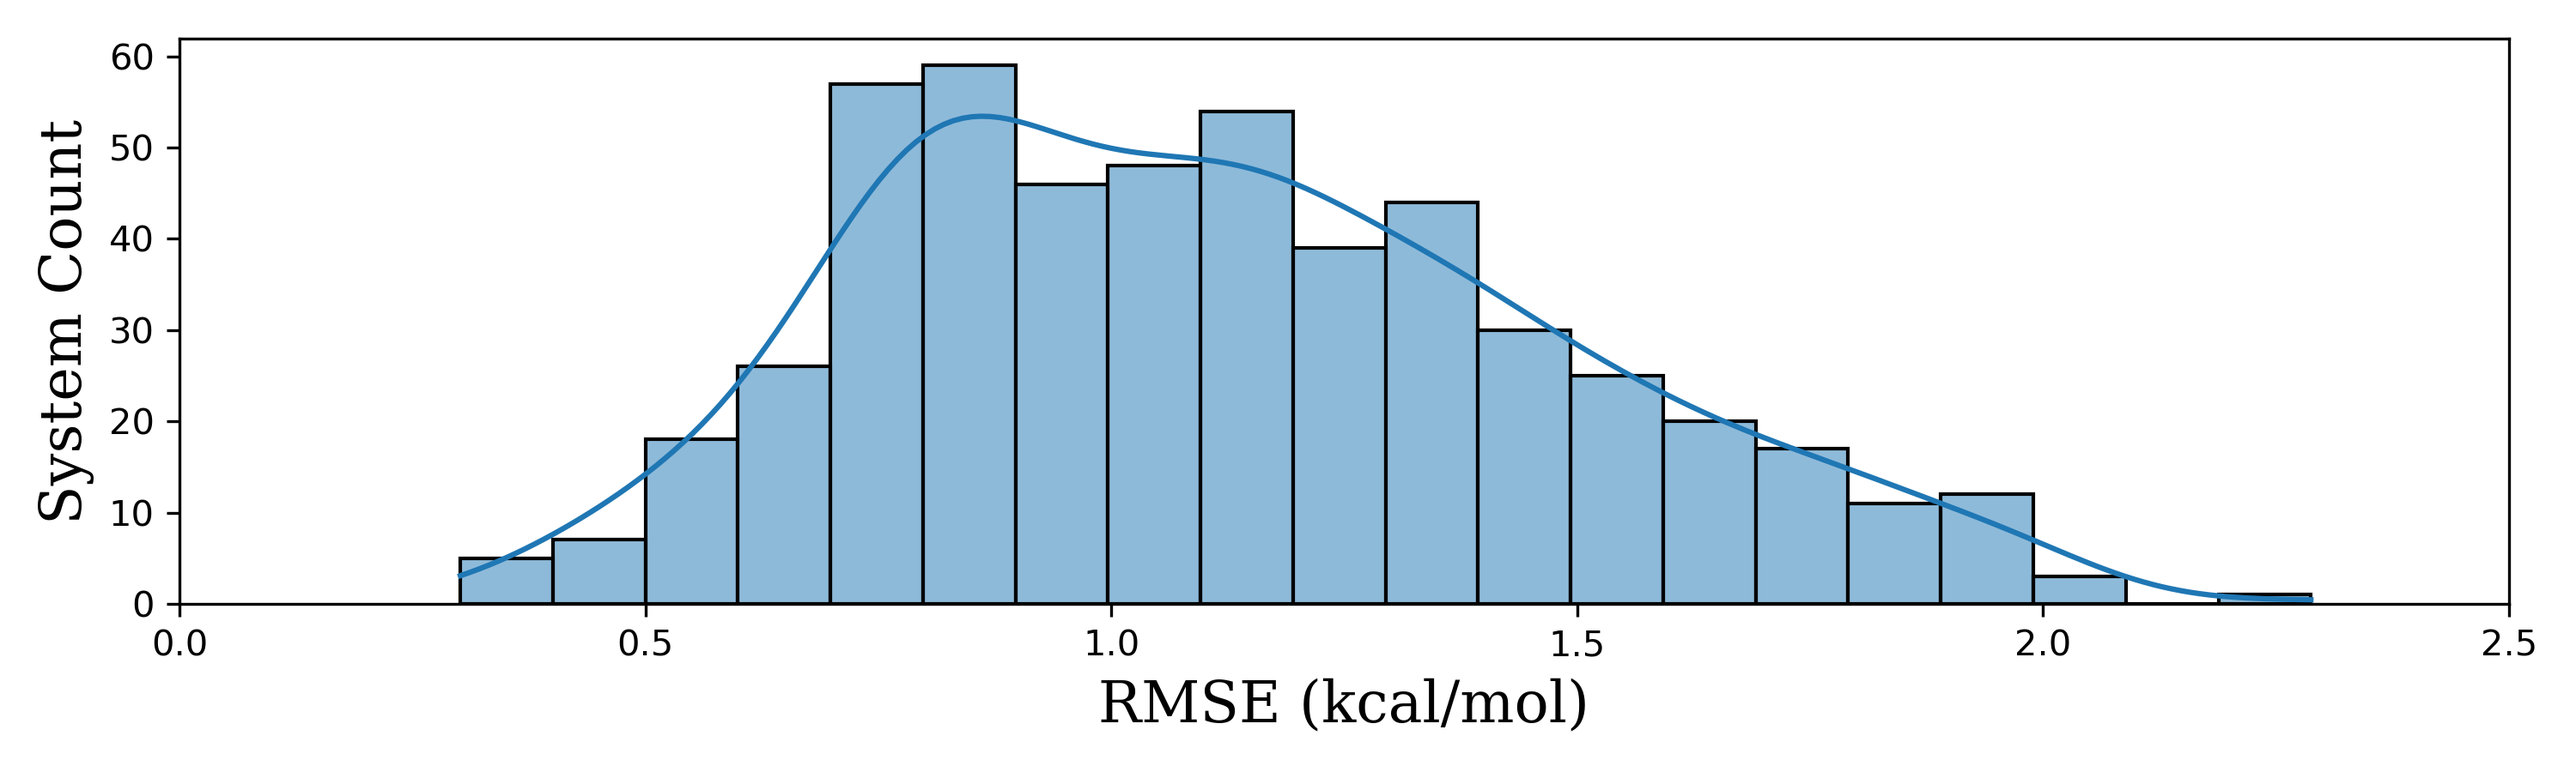
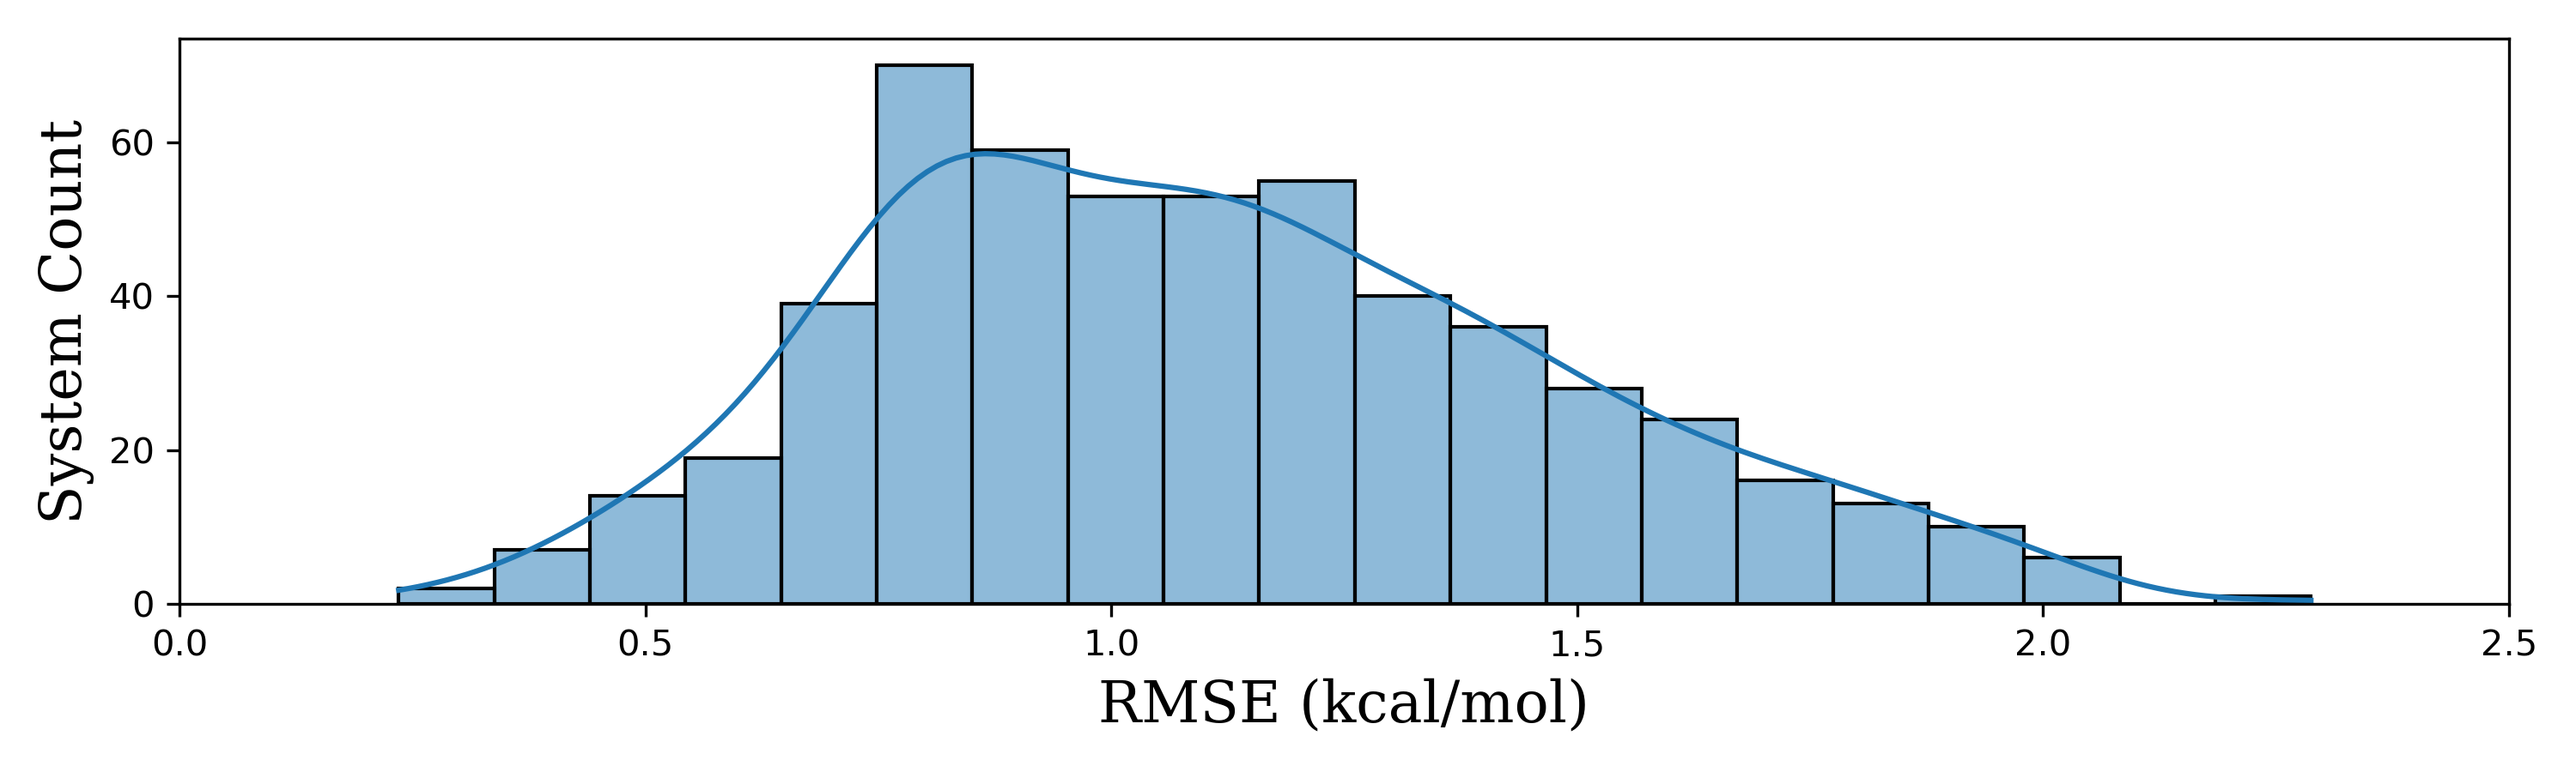
Refresh benchmark summary after weekly ChEMBL upload.

diff --git a/README.md b/README.md
@@ -34,8 +34,8 @@ For more details, please refer to our [FEP Open Challenge introduction](https://
 
 
 ## Summary of Benchmark Results
-**Total Systems**: 522  
-**Total Ligands**: 10124
+**Total Systems**: 545  
+**Total Ligands**: 10535
 ![RMSE Distribution](rmse_distribution.png)
 ![Kendall's tau Distribution](tau_distribution.png)
 | Series | Target | N_Ligands | RMSE (kcal/mol) | R² | Kendall's tau | Description |
@@ -53,6 +53,9 @@ For more details, please refer to our [FEP Open Challenge introduction](https://
 | ChEMBL | AR | 25 | 1.39 | 0.36 | 0.40 | CHEMBL4411915 |
 | ChEMBL | AR | 39 | 1.40 | 0.19 | 0.23 | CHEMBL891115 |
 | ChEMBL | AR | 9 | 1.37 | 0.31 | 0.28 | CHEMBL896869 |
+| ChEMBL | ATAD2 | 15 | 0.24 | 0.45 | 0.48 | CHEMBL4359589|g1 |
+| ChEMBL | ATAD2 | 15 | 0.68 | 0.45 | 0.42 | CHEMBL4359589|g3 |
+| ChEMBL | AURKA | 15 | 0.53 | 0.50 | 0.52 | CHEMBL1031294|g2 |
 | ChEMBL | AURKA | 30 | 0.80 | 0.32 | 0.15 | CHEMBL1656337 |
 | ChEMBL | AURKA | 7 | 1.12 | 0.79 | 0.59 | CHEMBL2382841 |
 | ChEMBL | AURKA | 10 | 1.49 | 0.54 | 0.63 | CHEMBL912713 |
@@ -132,6 +135,8 @@ For more details, please refer to our [FEP Open Challenge introduction](https://
 | ChEMBL | CHEK1 | 25 | 1.41 | 0.52 | 0.44 | CHEMBL2014579 |
 | ChEMBL | CHEK1 | 8 | 1.67 | 0.30 | 0.40 | CHEMBL3381275 |
 | ChEMBL | CHEK1 | 31 | 1.17 | 0.29 | 0.52 | CHEMBL894121 |
+| ChEMBL | CHEK1 | 15 | 1.19 | 0.64 | 0.64 | CHEMBL896339|g2 |
+| ChEMBL | CHEK2 | 30 | 0.57 | 0.72 | 0.59 | CHEMBL1068399 |
 | ChEMBL | CHKA | 16 | 1.84 | 0.24 | 0.49 | CHEMBL3769127 |
 | ChEMBL | CHKA | 17 | 1.54 | 0.33 | 0.48 | CHEMBL3769133 |
 | ChEMBL | CMA1 | 9 | 0.90 | 0.67 | 0.50 | CHEMBL4182330 |
@@ -243,6 +248,7 @@ For more details, please refer to our [FEP Open Challenge introduction](https://
 | ChEMBL | HSP90AA1 | 10 | 1.11 | 0.48 | 0.42 | CHEMBL3885779 |
 | ChEMBL | HSP90AA1 | 7 | 0.74 | 0.34 | 0.59 | CHEMBL4372487 |
 | ChEMBL | HSP90AA1 | 11 | 0.67 | 0.76 | 0.56 | CHEMBL832973 |
+| ChEMBL | IDH1 | 19 | 1.15 | 0.76 | 0.67 | CHEMBL4360242|g1 |
 | ChEMBL | IDH2 | 14 | 1.16 | 0.32 | 0.45 | CHEMBL4628662 |
 | ChEMBL | IGF1R | 9 | 1.08 | 0.38 | 0.54 | CHEMBL1045057 |
 | ChEMBL | IGF1R | 11 | 1.03 | 0.49 | 0.53 | CHEMBL3424980 |
@@ -250,11 +256,15 @@ For more details, please refer to our [FEP Open Challenge introduction](https://
 | ChEMBL | IRAK4 | 19 | 0.84 | 0.50 | 0.58 | CHEMBL4015947 |
 | ChEMBL | IRAK4 | 37 | 1.17 | 0.57 | 0.50 | CHEMBL4047622 |
 | ChEMBL | IRAK4 | 14 | 1.26 | 0.48 | 0.53 | CHEMBL4323523 |
+| ChEMBL | IRAK4 | 17 | 1.02 | 0.40 | 0.30 | CHEMBL5105899|g2 |
 | ChEMBL | JAK1 | 21 | 0.91 | 0.31 | 0.36 | CHEMBL2160360 |
 | ChEMBL | JAK1 | 21 | 1.55 | 0.29 | 0.38 | CHEMBL2395113 |
 | ChEMBL | JAK1 | 31 | 0.63 | 0.72 | 0.66 | CHEMBL2438692 |
+| ChEMBL | JAK1 | 17 | 0.50 | 0.50 | 0.49 | CHEMBL3705503|g2 |
 | ChEMBL | JAK1 | 23 | 0.95 | 0.63 | 0.57 | CHEMBL3706193 |
 | ChEMBL | JAK1 | 23 | 0.91 | 0.52 | 0.54 | CHEMBL3784138 |
+| ChEMBL | JAK1 | 20 | 1.42 | 0.47 | 0.56 | CHEMBL3888748|g1 |
+| ChEMBL | JAK1 | 20 | 1.07 | 0.56 | 0.56 | CHEMBL3888748|g2 |
 | ChEMBL | JAK1 | 14 | 1.37 | 0.32 | 0.23 | CHEMBL4411594 |
 | ChEMBL | JAK1 | 38 | 1.75 | 0.22 | 0.39 | CHEMBL4612619 |
 | ChEMBL | JAK1 | 10 | 0.51 | 0.65 | 0.72 | CHEMBL4620434 |
@@ -269,6 +279,11 @@ For more details, please refer to our [FEP Open Challenge introduction](https://
 | ChEMBL | JAK2 | 15 | 0.84 | 0.42 | 0.45 | CHEMBL3625473 |
 | ChEMBL | JAK2 | 10 | 1.39 | 0.42 | 0.54 | CHEMBL3625512 |
 | ChEMBL | JAK2 | 12 | 0.69 | 0.60 | 0.42 | CHEMBL3627422 |
+| ChEMBL | JAK2 | 20 | 0.92 | 0.87 | 0.67 | CHEMBL3707950|g3 |
+| ChEMBL | JAK2 | 17 | 0.87 | 0.67 | 0.43 | CHEMBL3707950|g5 |
+| ChEMBL | JAK2 | 20 | 0.86 | 0.65 | 0.69 | CHEMBL3707950|g6 |
+| ChEMBL | JAK2 | 20 | 1.03 | 0.67 | 0.32 | CHEMBL3707950|g7 |
+| ChEMBL | JAK2 | 18 | 1.42 | 0.79 | 0.65 | CHEMBL3707950|g9 |
 | ChEMBL | JAK2 | 9 | 1.30 | 0.77 | 0.56 | CHEMBL4031305 |
 | ChEMBL | JAK2 | 8 | 1.36 | 0.23 | 0.07 | CHEMBL4046590 |
 | ChEMBL | JAK2 | 15 | 0.83 | 0.55 | 0.44 | CHEMBL4150584 |
@@ -286,6 +301,7 @@ For more details, please refer to our [FEP Open Challenge introduction](https://
 | ChEMBL | LCK | 32 | 1.98 | 0.31 | 0.40 | CHEMBL913225 |
 | ChEMBL | LCK | 12 | 1.49 | 0.49 | 0.39 | CHEMBL948988 |
 | ChEMBL | LCK | 25 | 1.99 | 0.41 | 0.52 | CHEMBL951931 |
+| ChEMBL | LCK | 18 | 0.82 | 0.48 | 0.51 | CHEMBL952120|g2 |
 | ChEMBL | LDHA | 12 | 1.79 | 0.27 | 0.42 | CHEMBL3369987 |
 | ChEMBL | LDHA | 13 | 0.84 | 0.65 | 0.49 | CHEMBL5138278 |
 | ChEMBL | MAOB | 7 | 1.67 | 0.61 | 0.43 | CHEMBL3588480 |
@@ -335,6 +351,7 @@ For more details, please refer to our [FEP Open Challenge introduction](https://
 | ChEMBL | MAPK1 | 21 | 1.03 | 0.38 | 0.45 | CHEMBL4425912 |
 | ChEMBL | MAPK7 | 26 | 0.99 | 0.38 | 0.37 | CHEMBL5166085 |
 | ChEMBL | MAPK8 | 29 | 0.95 | 0.37 | 0.43 | CHEMBL2429340 |
+| ChEMBL | MAPK8 | 15 | 0.78 | 0.74 | 0.58 | CHEMBL3705344|g2 |
 | ChEMBL | MAPKAPK2 | 17 | 1.33 | 0.19 | 0.40 | CHEMBL1072653 |
 | ChEMBL | MCL1 | 10 | 1.07 | 0.73 | 0.42 | CHEMBL3417960 |
 | ChEMBL | MCL1 | 10 | 0.97 | 0.61 | 0.29 | CHEMBL3417961 |
@@ -432,6 +449,8 @@ For more details, please refer to our [FEP Open Challenge introduction](https://
 | ChEMBL | PIM1 | 35 | 1.21 | 0.52 | 0.57 | CHEMBL3301295 |
 | ChEMBL | PIM1 | 13 | 1.28 | 0.69 | 0.71 | CHEMBL3376646 |
 | ChEMBL | PIM1 | 17 | 1.37 | 0.48 | 0.41 | CHEMBL3887608 |
+| ChEMBL | PIM1 | 20 | 0.89 | 0.57 | 0.49 | CHEMBL3888377|g6 |
+| ChEMBL | PIM1 | 16 | 1.10 | 0.43 | 0.38 | CHEMBL3888377|g8 |
 | ChEMBL | PIM1 | 15 | 1.31 | 0.21 | 0.45 | CHEMBL4222672 |
 | ChEMBL | PIM2 | 12 | 0.93 | 0.74 | 0.61 | CHEMBL3376647 |
 | ChEMBL | PLA2G7 | 19 | 0.95 | 0.47 | 0.49 | CHEMBL3861790 |
@@ -455,6 +474,7 @@ For more details, please refer to our [FEP Open Challenge introduction](https://
 | ChEMBL | PTK2 | 23 | 1.03 | 0.41 | 0.44 | CHEMBL4832051 |
 | ChEMBL | PTK2 | 23 | 1.26 | 0.86 | 0.73 | CHEMBL962347 |
 | ChEMBL | PTPN1 | 7 | 0.91 | 0.48 | 0.52 | CHEMBL768521 |
+| ChEMBL | PTPN1 | 15 | 1.04 | 0.40 | 0.48 | CHEMBL896126|g3 |
 | ChEMBL | RAF1 | 11 | 1.47 | 0.53 | 0.44 | CHEMBL3267830 |
 | ChEMBL | RARG | 17 | 1.35 | 0.39 | 0.40 | CHEMBL798022 |
 | ChEMBL | RBP4 | 21 | 1.28 | 0.38 | 0.41 | CHEMBL3380009 |
@@ -492,6 +512,7 @@ For more details, please refer to our [FEP Open Challenge introduction](https://
 | ChEMBL | SRC | 17 | 0.88 | 0.50 | 0.46 | CHEMBL823232 |
 | ChEMBL | STK3 | 8 | 0.71 | 0.42 | 0.64 | CHEMBL3395732 |
 | ChEMBL | SYK | 21 | 1.56 | 0.29 | 0.31 | CHEMBL1838853 |
+| ChEMBL | SYK | 19 | 0.77 | 0.44 | 0.49 | CHEMBL2350855|g1 |
 | ChEMBL | SYK | 21 | 0.76 | 0.28 | 0.11 | CHEMBL945309 |
 | ChEMBL | TEK | 24 | 1.98 | 0.24 | 0.36 | CHEMBL908503 |
 | ChEMBL | TNKS | 9 | 0.72 | 0.84 | 0.87 | CHEMBL2384487 |
@@ -499,12 +520,14 @@ For more details, please refer to our [FEP Open Challenge introduction](https://
 | ChEMBL | TRAP1 | 8 | 1.33 | 0.57 | 0.21 | CHEMBL3427925 |
 | ChEMBL | TTBK1 | 20 | 1.71 | 0.26 | 0.25 | CHEMBL5236876 |
 | ChEMBL | TTK | 13 | 1.24 | 0.31 | 0.46 | CHEMBL2383388 |
+| ChEMBL | TTK | 15 | 1.00 | 0.62 | 0.56 | CHEMBL3370374|g1 |
 | ChEMBL | TTK | 25 | 0.86 | 0.74 | 0.73 | CHEMBL3411333 |
 | ChEMBL | TYMS | 17 | 0.95 | 0.31 | 0.33 | CHEMBL823516 |
 | ChEMBL | USP7 | 45 | 1.33 | 0.67 | 0.61 | CHEMBL4255847 |
 | ChEMBL | USP7 | 12 | 1.22 | 0.28 | 0.00 | CHEMBL5234060 |
 | ChEMBL | WDR5 | 38 | 1.78 | 0.47 | 0.56 | CHEMBL3875502 |
 | ChEMBL | WEE1 | 10 | 1.44 | 0.48 | 0.58 | CHEMBL5230681 |
+| ChEMBL | WEE1 | 15 | 1.05 | 0.55 | 0.40 | CHEMBL829373|g2 |
 | Covalent | CAPN1 | 7 | 0.70 | 0.02 | -0.05 | Chatterjee1996 |
 | Covalent | CRUZAIN | 20 | 0.86 | 0.43 | 0.36 | Avelar2015 |
 | Covalent | hCatL | 8 | 0.86 | 0.47 | 0.69 | Bonatto2021 |
